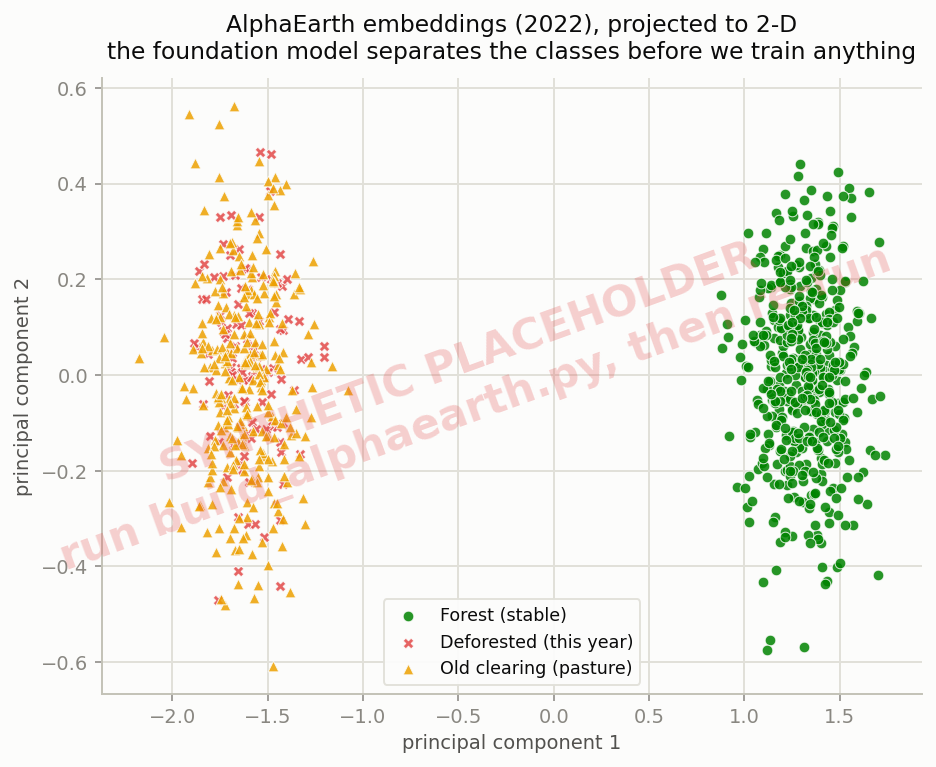
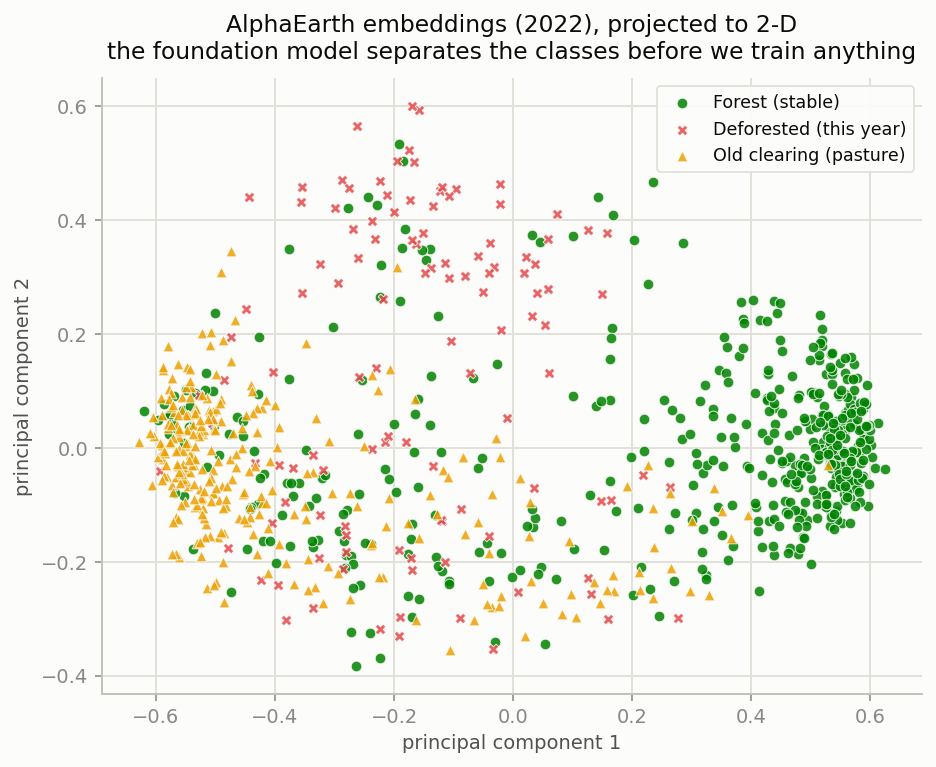
Regenerate fig_07/fig_08 from real AlphaEarth data; add drift figure + PCA gif
- fig_07/fig_08 rebuilt from data/amazon_alphaearth_samples.csv (no longer
  the synthetic watermarked placeholders)
- fig_09_alphaearth_drift.png: mean year-over-year embedding displacement per
  class -- the clearing year spikes for deforested pixels
- anim_04_alphaearth_pca.gif: fixed 2-D PCA projection animated 2018-2024,
  deforested pixels drifting out of the forest cluster
- make_alphaearth_figures.py: reproducible generator for both

diff --git a/data_prep/make_alphaearth_figures.py b/data_prep/make_alphaearth_figures.py
@@ -1,0 +1,168 @@
+#!/usr/bin/env python3
+"""Extra AlphaEarth-only teaching figures for the CCAI deforestation-SITS
+tutorial. Companion to make_figures.py -- kept separate because these depend on
+the *temporal trajectory* of the embeddings (2018-2024), which is what makes a
+foundation model different from a single-year classifier.
+
+  figures/fig_09_alphaearth_drift.png   mean year-over-year embedding
+                                        displacement per class (WHEN change happens)
+  figures/anim_04_alphaearth_pca.gif    a fixed 2-D PCA projection animated across
+                                        years -- deforested pixels drift out of the
+                                        forest cluster into the clearing cluster
+
+Both reuse the palette/helpers from make_figures.py. They need the real CSV
+(data/amazon_alphaearth_samples.csv); with the synthetic fallback they are
+watermarked as placeholders.
+
+Run:  python data_prep/make_alphaearth_figures.py
+"""
+from __future__ import annotations
+
+import sys
+from pathlib import Path
+
+import matplotlib.pyplot as plt
+import numpy as np
+from matplotlib.animation import FuncAnimation, PillowWriter
+
+sys.path.insert(0, str(Path(__file__).resolve().parent))
+from make_figures import (  # noqa: E402  (shared style + data loaders)
+    AE_DIMS, CLASS_STYLE, GRID, INK, INK2, MUTED, OUT, SURFACE,
+    clean, load, load_alphaearth, synth_watermark,
+)
+
+ALL_YEARS = list(range(2018, 2025))  # full trajectory, incl. post-deforestation
+
+
+def _year_matrix(ae_df, year):
+    """(n_valid, 64) embeddings for one year, plus the matching label array."""
+    cols = [f"emb_{year}_{b:02d}" for b in range(AE_DIMS)]
+    valid = ae_df[cols].notna().all(axis=1)
+    X = ae_df.loc[valid, cols].to_numpy("float32")
+    labels = ae_df.loc[valid, "label"].to_numpy()
+    return X, labels
+
+
+def fig_alphaearth_drift(ae_df, order, is_synth, years=ALL_YEARS):
+    """Mean L2 displacement between consecutive years, per class.
+
+    A pixel that is cleared moves a long way in embedding space the year the
+    forest disappears; stable forest and old pasture barely move. This puts a
+    number on the sanity check printed by build_alphaearth.py.
+    """
+    pair_labels = [f"{y}→{y + 1}" for y in years[:-1]]
+    x = np.arange(len(pair_labels))
+    fig, ax = plt.subplots(figsize=(7.6, 4.6))
+    clean(ax)
+    for cls in order:
+        st = CLASS_STYLE[cls]
+        means = []
+        for y in years[:-1]:
+            Xa, la = _year_matrix(ae_df, y)
+            Xb, lb = _year_matrix(ae_df, y + 1)
+            m = (la == cls)
+            d = np.linalg.norm(Xa[m] - Xb[m], axis=1)
+            means.append(float(np.nanmean(d)) if d.size else np.nan)
+        ax.plot(x, means, color=st["color"], lw=2.4, marker=st["marker"],
+                ms=8, mfc=st["color"], mec=SURFACE, mew=1.4, label=st["label"])
+    ax.set_xticks(x)
+    ax.set_xticklabels(pair_labels, fontsize=9)
+    ax.set_xlabel("consecutive-year pair")
+    ax.set_ylabel("mean |Δ embedding|  (L2 distance)")
+    ax.set_title("How far each pixel moves in AlphaEarth space, year to year\n"
+                 "the clearing year spikes for deforested pixels; stable land stays put",
+                 fontsize=12, pad=10)
+    ax.legend(loc="upper right", frameon=True, fontsize=9, framealpha=0.95,
+              edgecolor=GRID)
+    if is_synth:
+        synth_watermark(fig)
+    fig.tight_layout()
+    fig.savefig(OUT / "fig_09_alphaearth_drift.png", bbox_inches="tight", dpi=140)
+    plt.close(fig)
+    print("  wrote fig_09_alphaearth_drift.png")
+
+
+def anim_alphaearth_pca(ae_df, order, is_synth, years=ALL_YEARS):
+    """Animate a *fixed* 2-D PCA projection across years.
+
+    The projection is fit once on all years pooled, so the axes mean the same
+    thing in every frame and motion is real motion, not a re-fit wobble.
+    """
+    # Fit the projection on every (point, year) embedding stacked together.
+    stack = np.vstack([_year_matrix(ae_df, y)[0] for y in years])
+    mean = stack.mean(0)
+    _, _, vt = np.linalg.svd(stack - mean, full_matrices=False)
+    basis = vt[:2].T  # (64, 2)
+
+    # Pre-project every year so we can fix the axis limits up front.
+    proj = {}
+    labels_ref = None
+    for y in years:
+        X, labels = _year_matrix(ae_df, y)
+        proj[y] = (X - mean) @ basis
+        labels_ref = labels
+    allpts = np.vstack(list(proj.values()))
+    pad = 0.05 * (allpts.max(0) - allpts.min(0))
+    xlim = (allpts[:, 0].min() - pad[0], allpts[:, 0].max() + pad[0])
+    ylim = (allpts[:, 1].min() - pad[1], allpts[:, 1].max() + pad[1])
+
+    fig, ax = plt.subplots(figsize=(6.8, 6.0))
+    clean(ax)
+    ax.set_xlim(*xlim); ax.set_ylim(*ylim)
+    ax.set_xlabel("principal component 1")
+    ax.set_ylabel("principal component 2")
+    scatters = {}
+    for cls in order:
+        st = CLASS_STYLE[cls]
+        scatters[cls] = ax.scatter([], [], s=34, marker=st["marker"],
+                                   c=st["color"], edgecolors=SURFACE,
+                                   linewidths=0.5, alpha=0.85, label=st["label"])
+    ax.legend(loc="upper right", frameon=True, fontsize=9, framealpha=0.95,
+              edgecolor=GRID)
+    title = ax.set_title("", fontsize=12.5, pad=10, color=INK)
+    # Reserve bottom margin so the caption sits inside the (fixed) frame; gif
+    # writers discard bbox_inches, so nothing outside the figure would show.
+    fig.subplots_adjust(bottom=0.14)
+    fig.text(0.5, 0.03,
+             "same projection every frame  ·  watch the red X's leave the forest",
+             ha="center", fontsize=9.5, color=INK2)
+    if is_synth:
+        synth_watermark(fig)
+
+    # Slow down on the clearing year so the eye catches the jump.
+    seq = []
+    for y in years:
+        seq.append(y)
+        if y == 2022:
+            seq += [y, y]
+    seq += [years[-1], years[-1]]  # hold on the final state
+
+    def frame(k):
+        y = seq[k]
+        pts = proj[y]
+        for cls in order:
+            m = labels_ref == cls
+            scatters[cls].set_offsets(pts[m])
+        highlight = "  ◀ clearing year" if y == 2022 else ""
+        title.set_text(f"AlphaEarth embeddings drifting through time — {y}{highlight}")
+        return list(scatters.values()) + [title]
+
+    anim = FuncAnimation(fig, frame, frames=len(seq), interval=650, blit=False)
+    anim.save(OUT / "anim_04_alphaearth_pca.gif", writer=PillowWriter(fps=1.6))
+    plt.close(fig)
+    print("  wrote anim_04_alphaearth_pca.gif")
+
+
+def main():
+    df, _, order = load()
+    ae_df, is_synth = load_alphaearth(df)
+    if is_synth:
+        print("  (AlphaEarth CSV not found: figures use watermarked synthetic data)")
+    print("9) AlphaEarth year-over-year drift ...")
+    fig_alphaearth_drift(ae_df, order, is_synth)
+    print("A) AlphaEarth PCA drift animation ...")
+    anim_alphaearth_pca(ae_df, order, is_synth)
+
+
+if __name__ == "__main__":
+    main()